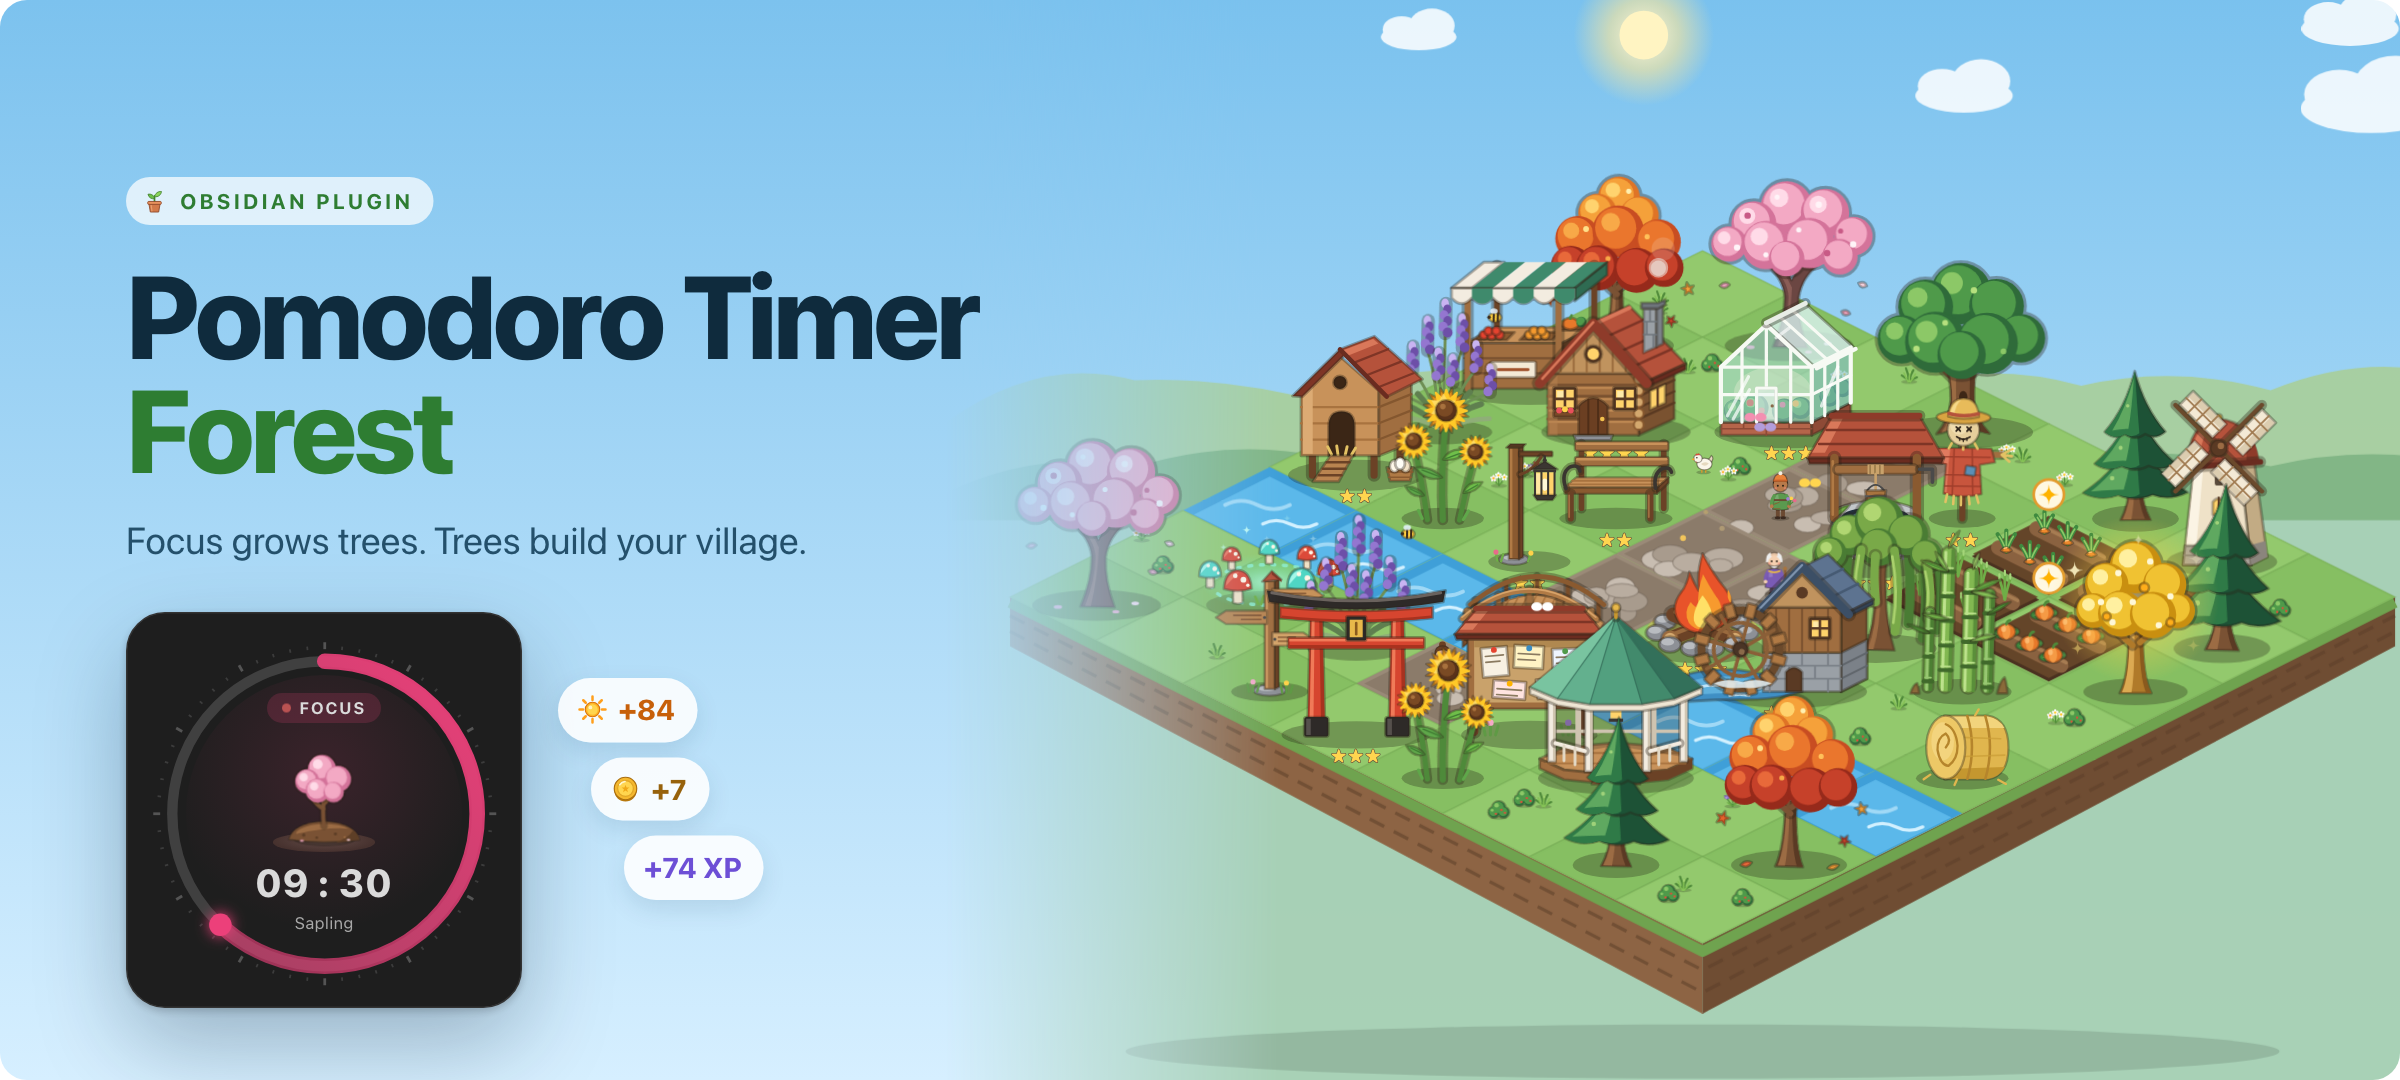
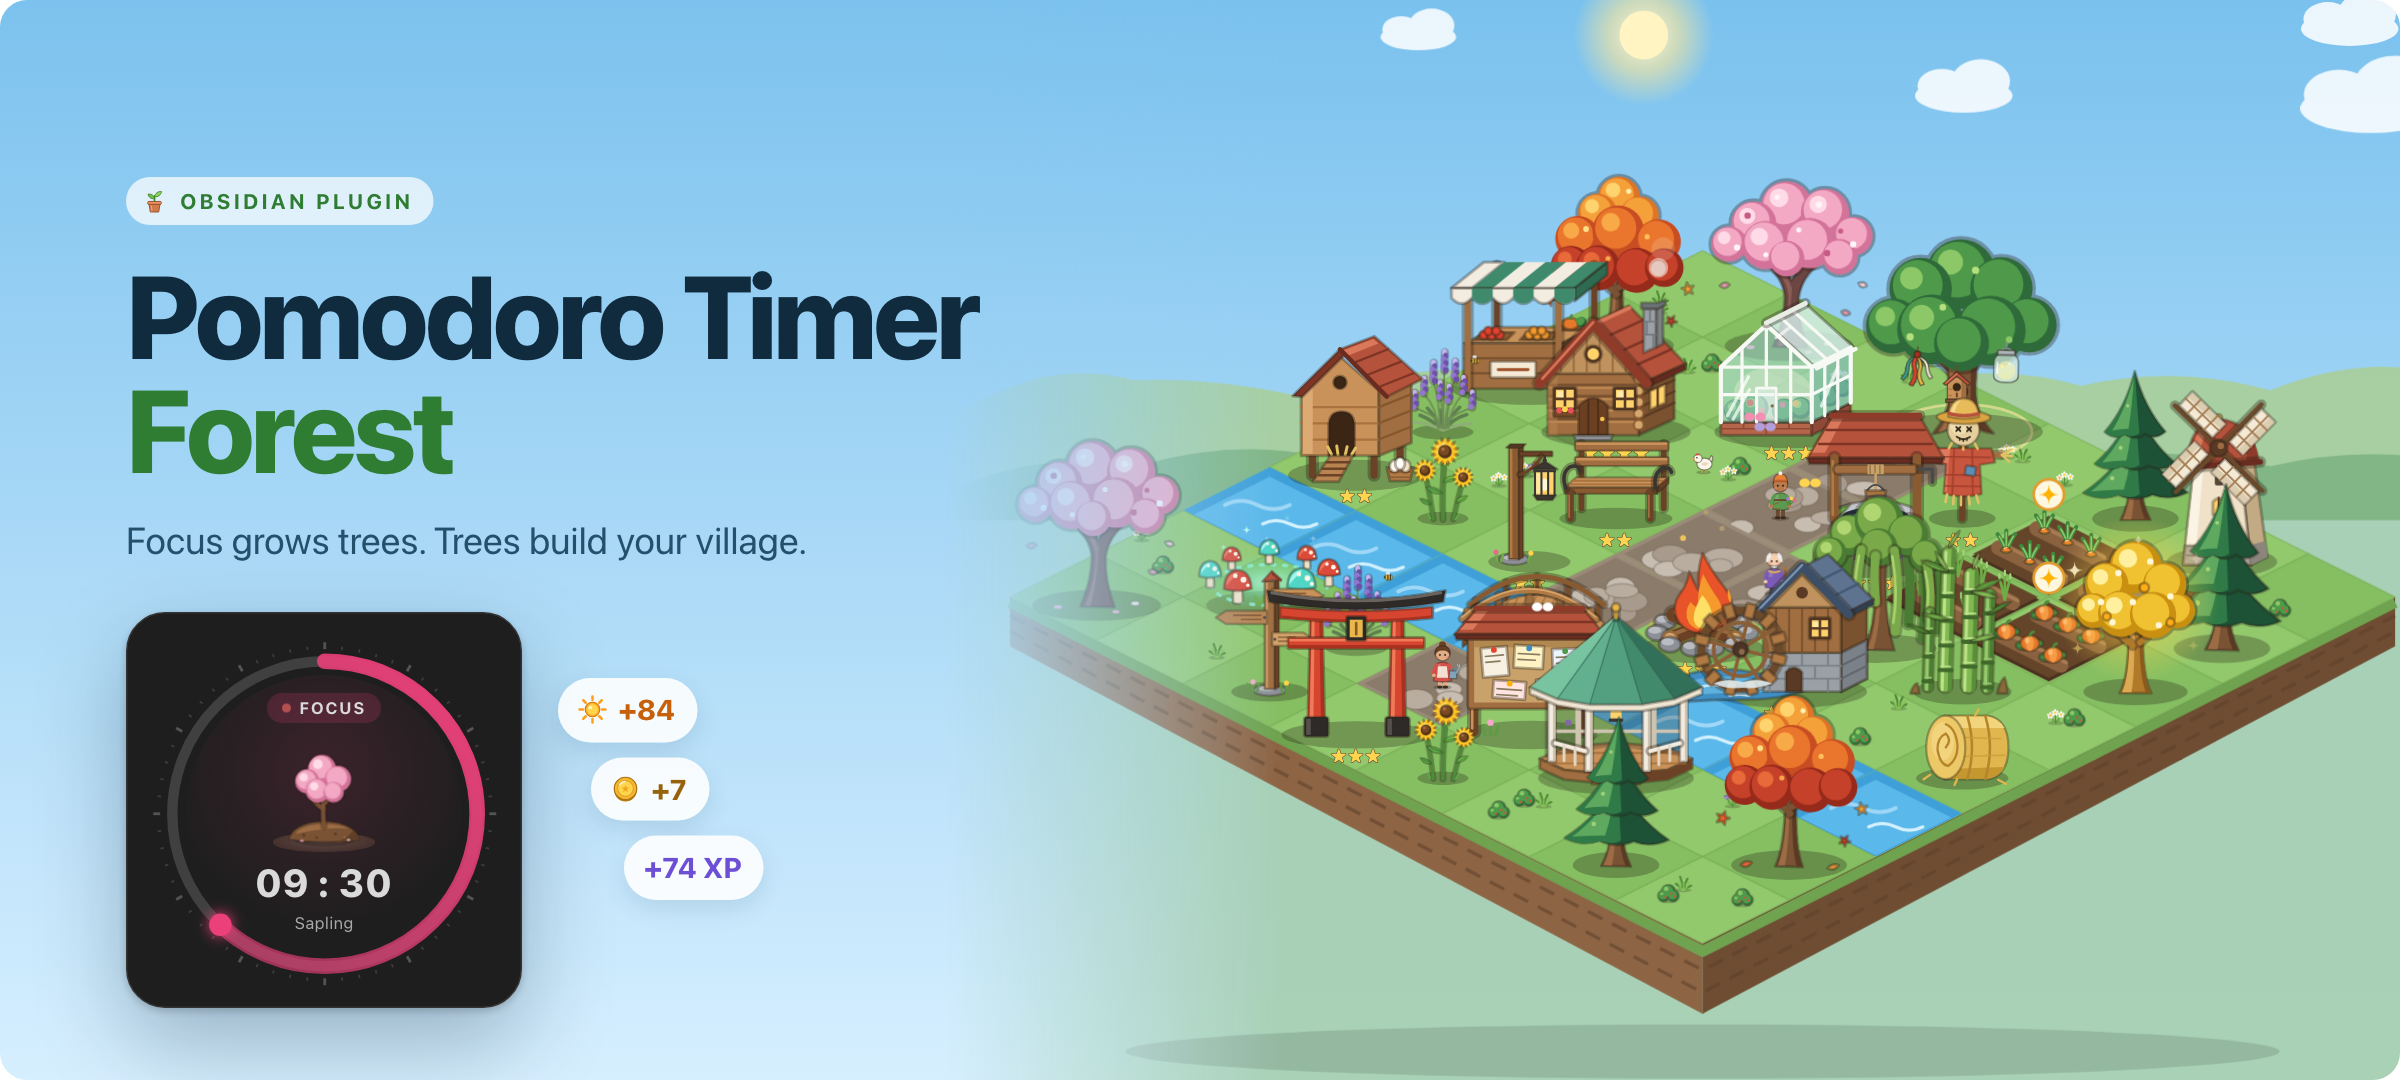
docs: show the Heart Tree and mission finds; refresh screenshots

Changed region(s): [[0.5312, 0.275, 0.625, 0.7333], [0.75, 0.2139, 0.875, 0.3972]]

diff --git a/README.md b/README.md
@@ -39,6 +39,19 @@ Quests are for today; the **Village Charter** is for the months ahead. Your sett
 
 [More on the charter →](docs/GUIDE.md#the-village-charter) · [Neighbours →](docs/GUIDE.md#neighbours-and-their-requests)
 
+## Your Heart Tree
+
+Some things can't be bought. Quests, the daily chest, neighbours' requests and charter chapters leave care items and ornaments glinting in your village for you to pick up. Choose one tree as your **Heart Tree**, meet its small daily need, and it grows from Young to Elder, stands taller, and wears the ornaments you've found. A missed day costs nothing; it simply waits.
+
+<table>
+  <tr>
+    <td align="center" valign="top" width="68%"><img src="docs/images/homestead-heart-tree.png" alt="The village with the Heart Tree selected: a larger Ancient Oak hung with ribbons, a birdhouse and a firefly jar, with finds glinting nearby"></td>
+    <td align="center" valign="top" width="32%"><img src="docs/images/panel-heart-tree.png" alt="The Heart Tree card: stage and bond, today's need with a Tend button, the satchel of care items and the ornament collection"></td>
+  </tr>
+</table>
+
+[More on the Heart Tree →](docs/GUIDE.md#the-heart-tree-and-mission-finds)
+
 ## A village that lives on your clock
 
 The sky follows your real time of day. Windows glow at dusk, villagers gather at the campfire after dark, and one session wakes a sleepy village back up.
